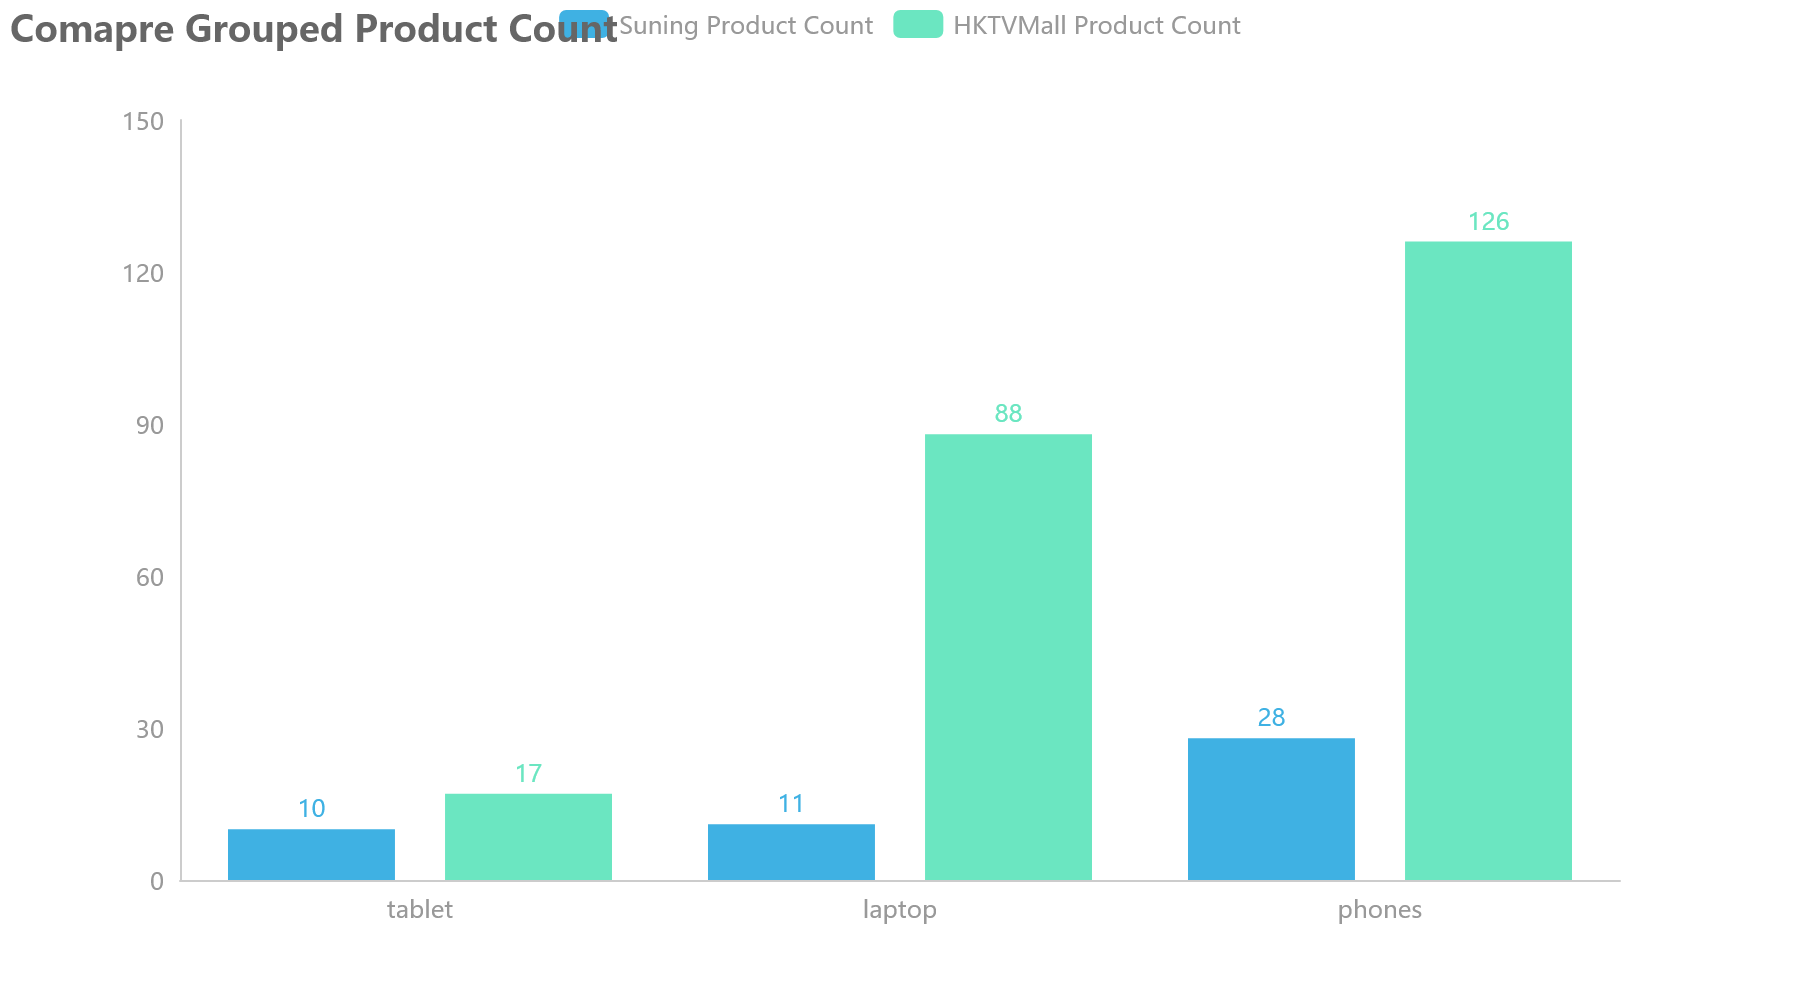
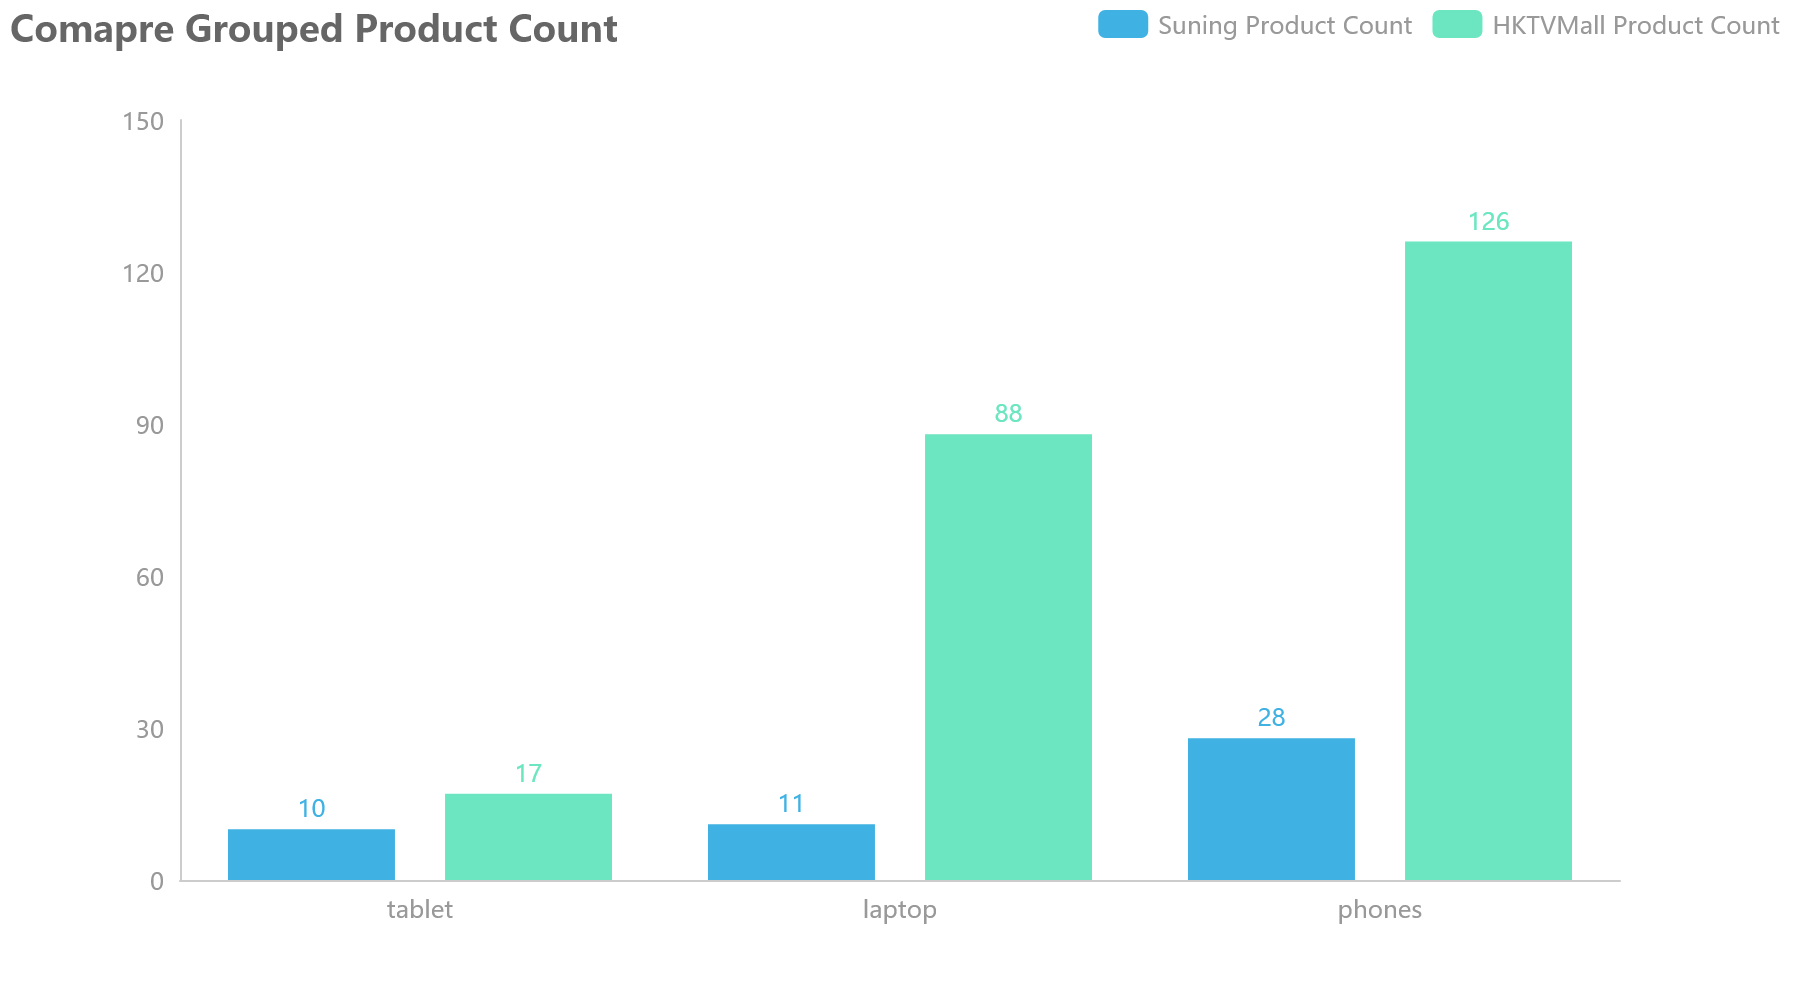
Adjusted legend position

Changed region(s): [[0.3111, 0.0, 0.9956, 0.062]]

diff --git a/Data Analysis/Pictures/price-box-plot.html b/Data Analysis/Pictures/price-box-plot.html
@@ -8,11 +8,11 @@
 
 </head>
 <body>
-    <div id="aaa7ae9023d8488bbccac45be71d42af" class="chart-container" style="width:900px; height:500px;"></div>
+    <div id="9689457750bb458aab8d60b4a46066aa" class="chart-container" style="width:900px; height:500px;"></div>
     <script>
-        var chart_aaa7ae9023d8488bbccac45be71d42af = echarts.init(
-            document.getElementById('aaa7ae9023d8488bbccac45be71d42af'), 'walden', {renderer: 'canvas'});
-        var option_aaa7ae9023d8488bbccac45be71d42af = {
+        var chart_9689457750bb458aab8d60b4a46066aa = echarts.init(
+            document.getElementById('9689457750bb458aab8d60b4a46066aa'), 'walden', {renderer: 'canvas'});
+        var option_9689457750bb458aab8d60b4a46066aa = {
     "animation": true,
     "animationThreshold": 2000,
     "animationDuration": 1000,
@@ -252,7 +252,7 @@
             "splitArea": {
                 "show": true,
                 "areaStyle": {
-                    "opacity": 1
+                    "opacity": 0.5
                 }
             }
         }
@@ -263,7 +263,7 @@
         }
     ]
 };
-        chart_aaa7ae9023d8488bbccac45be71d42af.setOption(option_aaa7ae9023d8488bbccac45be71d42af);
+        chart_9689457750bb458aab8d60b4a46066aa.setOption(option_9689457750bb458aab8d60b4a46066aa);
     </script>
 </body>
 </html>

diff --git a/Data Analysis/Pictures/comapre-grouped-product-count.html b/Data Analysis/Pictures/comapre-grouped-product-count.html
@@ -8,11 +8,11 @@
 
 </head>
 <body>
-    <div id="c99ea27ae243446bb92a46bd5732ece8" class="chart-container" style="width:900px; height:500px;"></div>
+    <div id="aa0e3171c70c494ba52bedcbcec1bee2" class="chart-container" style="width:900px; height:500px;"></div>
     <script>
-        var chart_c99ea27ae243446bb92a46bd5732ece8 = echarts.init(
-            document.getElementById('c99ea27ae243446bb92a46bd5732ece8'), 'walden', {renderer: 'canvas'});
-        var option_c99ea27ae243446bb92a46bd5732ece8 = {
+        var chart_aa0e3171c70c494ba52bedcbcec1bee2 = echarts.init(
+            document.getElementById('aa0e3171c70c494ba52bedcbcec1bee2'), 'walden', {renderer: 'canvas'});
+        var option_aa0e3171c70c494ba52bedcbcec1bee2 = {
     "animation": true,
     "animationThreshold": 2000,
     "animationDuration": 1000,
@@ -64,6 +64,7 @@
                 "HKTVMall Product Count": true
             },
             "show": true,
+            "right": 5,
             "padding": 5,
             "itemGap": 10,
             "itemWidth": 25,
@@ -137,7 +138,7 @@
         }
     ]
 };
-        chart_c99ea27ae243446bb92a46bd5732ece8.setOption(option_c99ea27ae243446bb92a46bd5732ece8);
+        chart_aa0e3171c70c494ba52bedcbcec1bee2.setOption(option_aa0e3171c70c494ba52bedcbcec1bee2);
     </script>
 </body>
 </html>

diff --git a/Data Analysis/Pictures/compare-product-count.html b/Data Analysis/Pictures/compare-product-count.html
@@ -8,11 +8,11 @@
 
 </head>
 <body>
-    <div id="42b73f1d81fb4418bee2d268f82fcb89" class="chart-container" style="width:900px; height:500px;"></div>
+    <div id="2457043c9a6946d7a01f88c37a648f52" class="chart-container" style="width:900px; height:500px;"></div>
     <script>
-        var chart_42b73f1d81fb4418bee2d268f82fcb89 = echarts.init(
-            document.getElementById('42b73f1d81fb4418bee2d268f82fcb89'), 'walden', {renderer: 'canvas'});
-        var option_42b73f1d81fb4418bee2d268f82fcb89 = {
+        var chart_2457043c9a6946d7a01f88c37a648f52 = echarts.init(
+            document.getElementById('2457043c9a6946d7a01f88c37a648f52'), 'walden', {renderer: 'canvas'});
+        var option_2457043c9a6946d7a01f88c37a648f52 = {
     "animation": true,
     "animationThreshold": 2000,
     "animationDuration": 1000,
@@ -64,6 +64,7 @@
                 "HKTVMall Product Count": true
             },
             "show": true,
+            "right": 5,
             "padding": 5,
             "itemGap": 10,
             "itemWidth": 25,
@@ -137,7 +138,7 @@
         }
     ]
 };
-        chart_42b73f1d81fb4418bee2d268f82fcb89.setOption(option_42b73f1d81fb4418bee2d268f82fcb89);
+        chart_2457043c9a6946d7a01f88c37a648f52.setOption(option_2457043c9a6946d7a01f88c37a648f52);
     </script>
 </body>
 </html>
